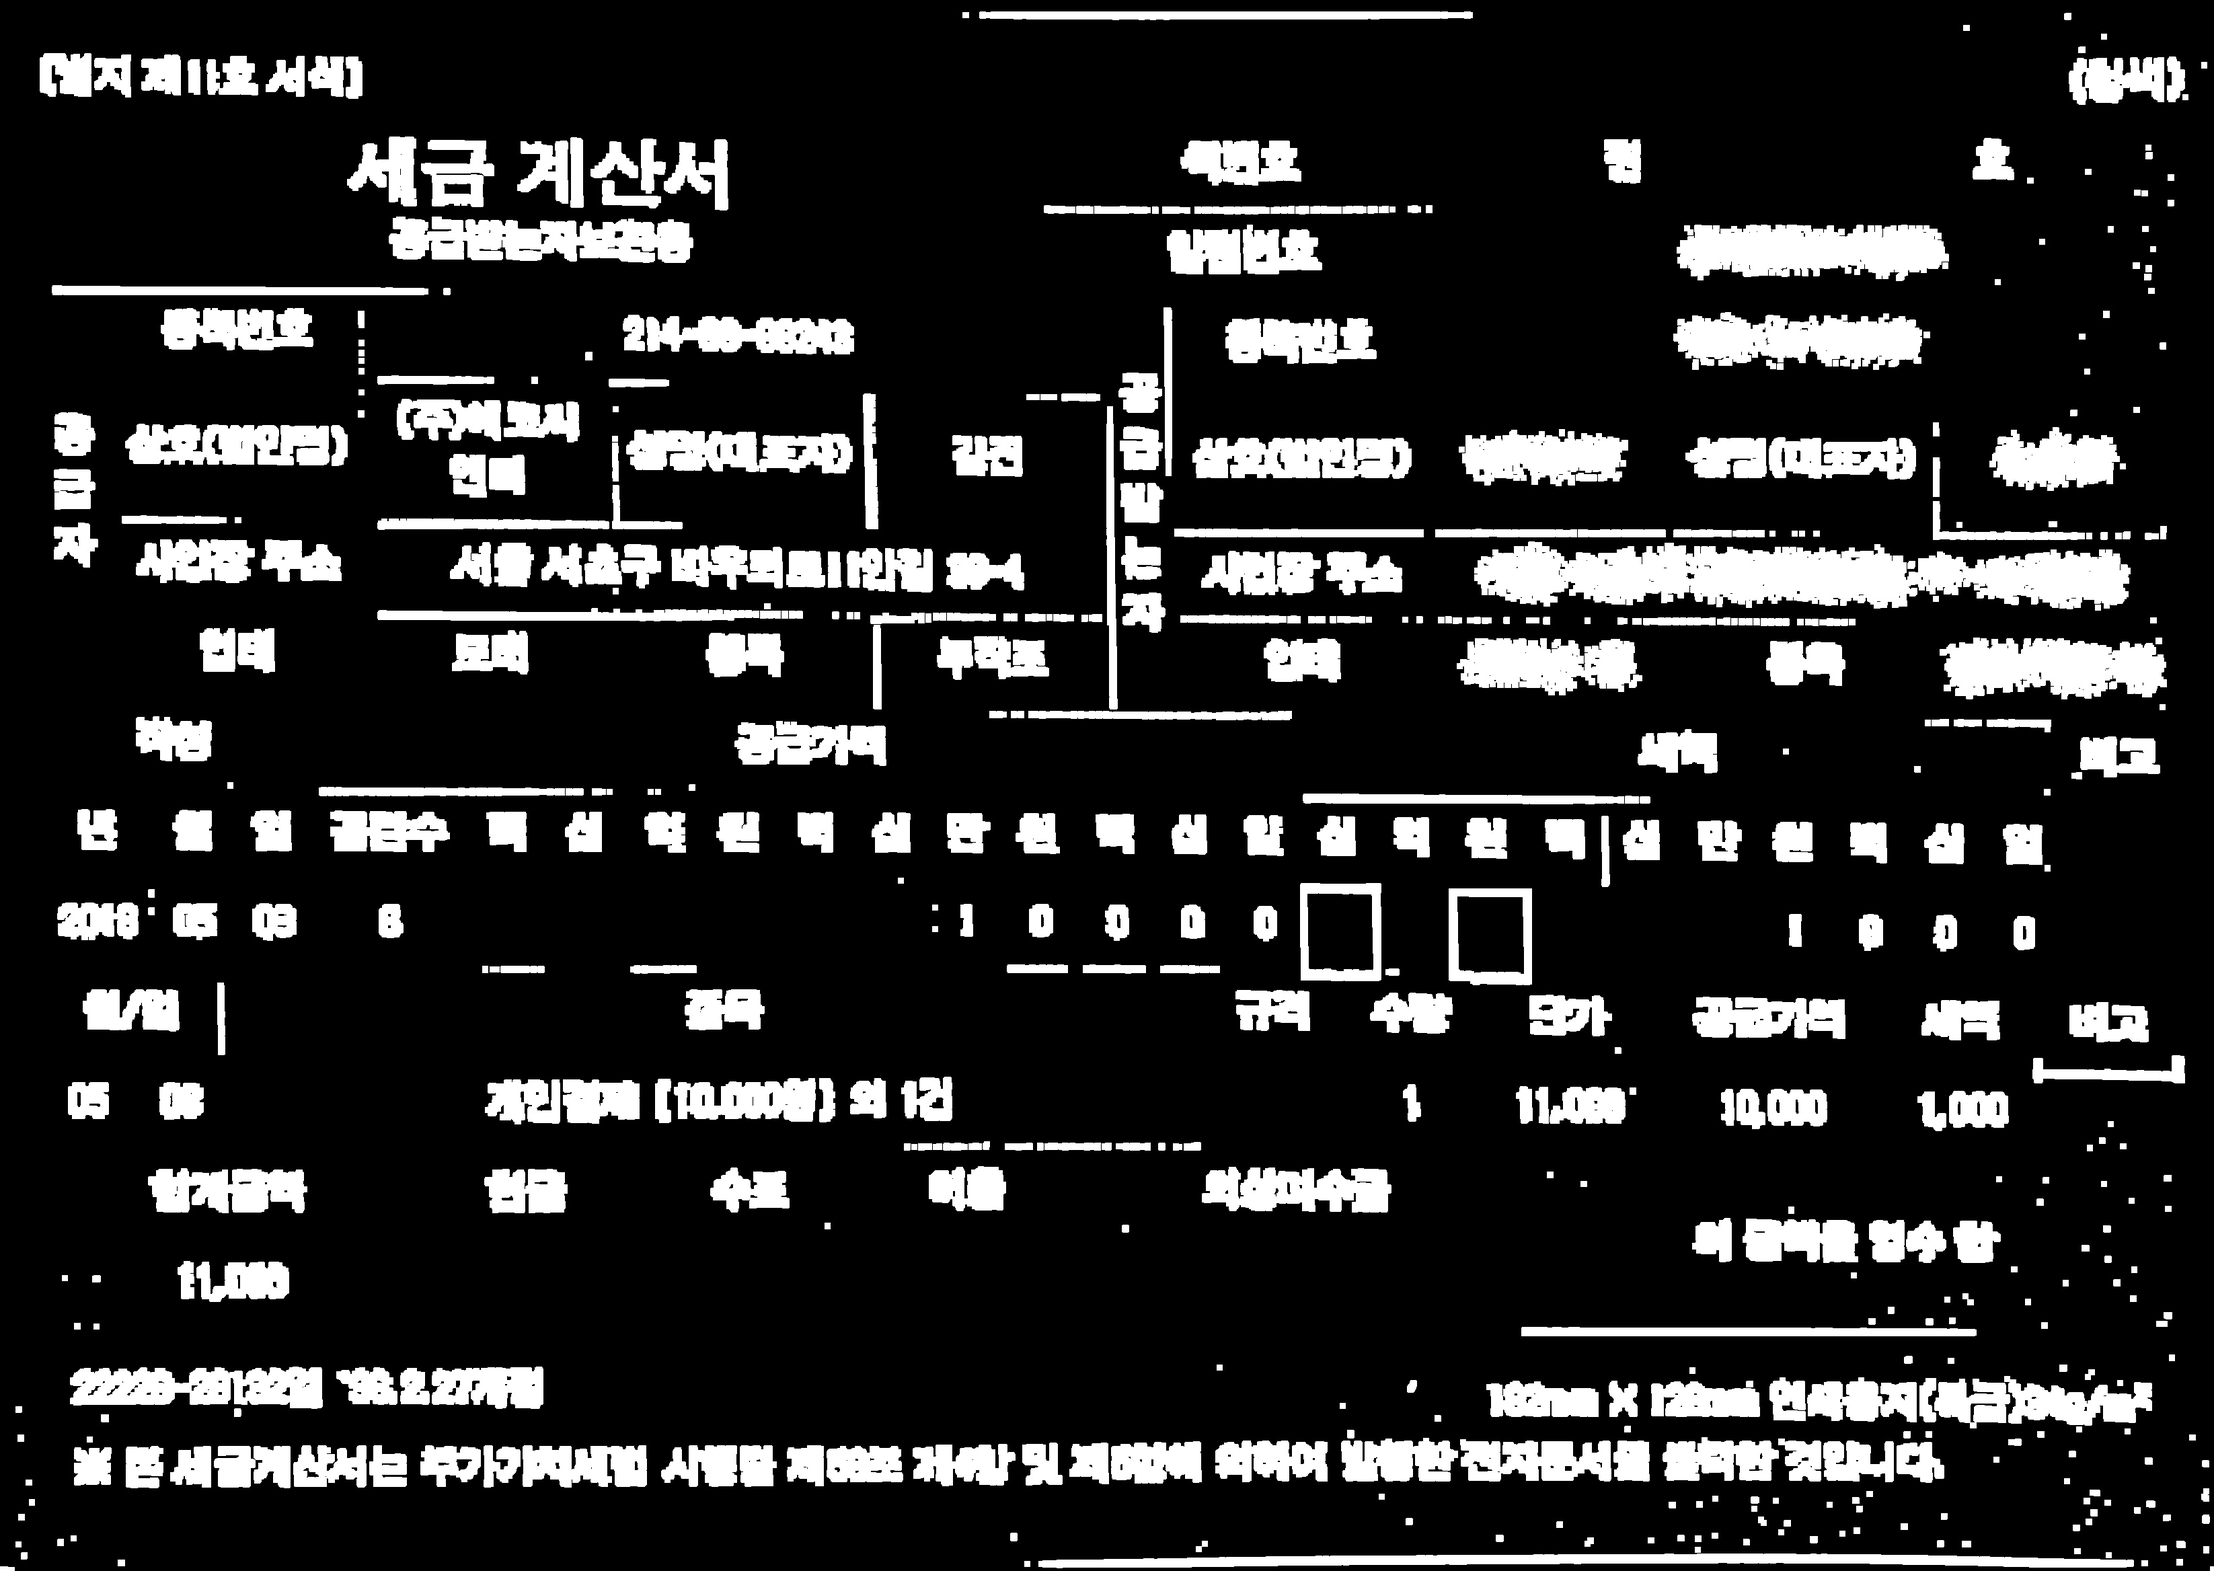
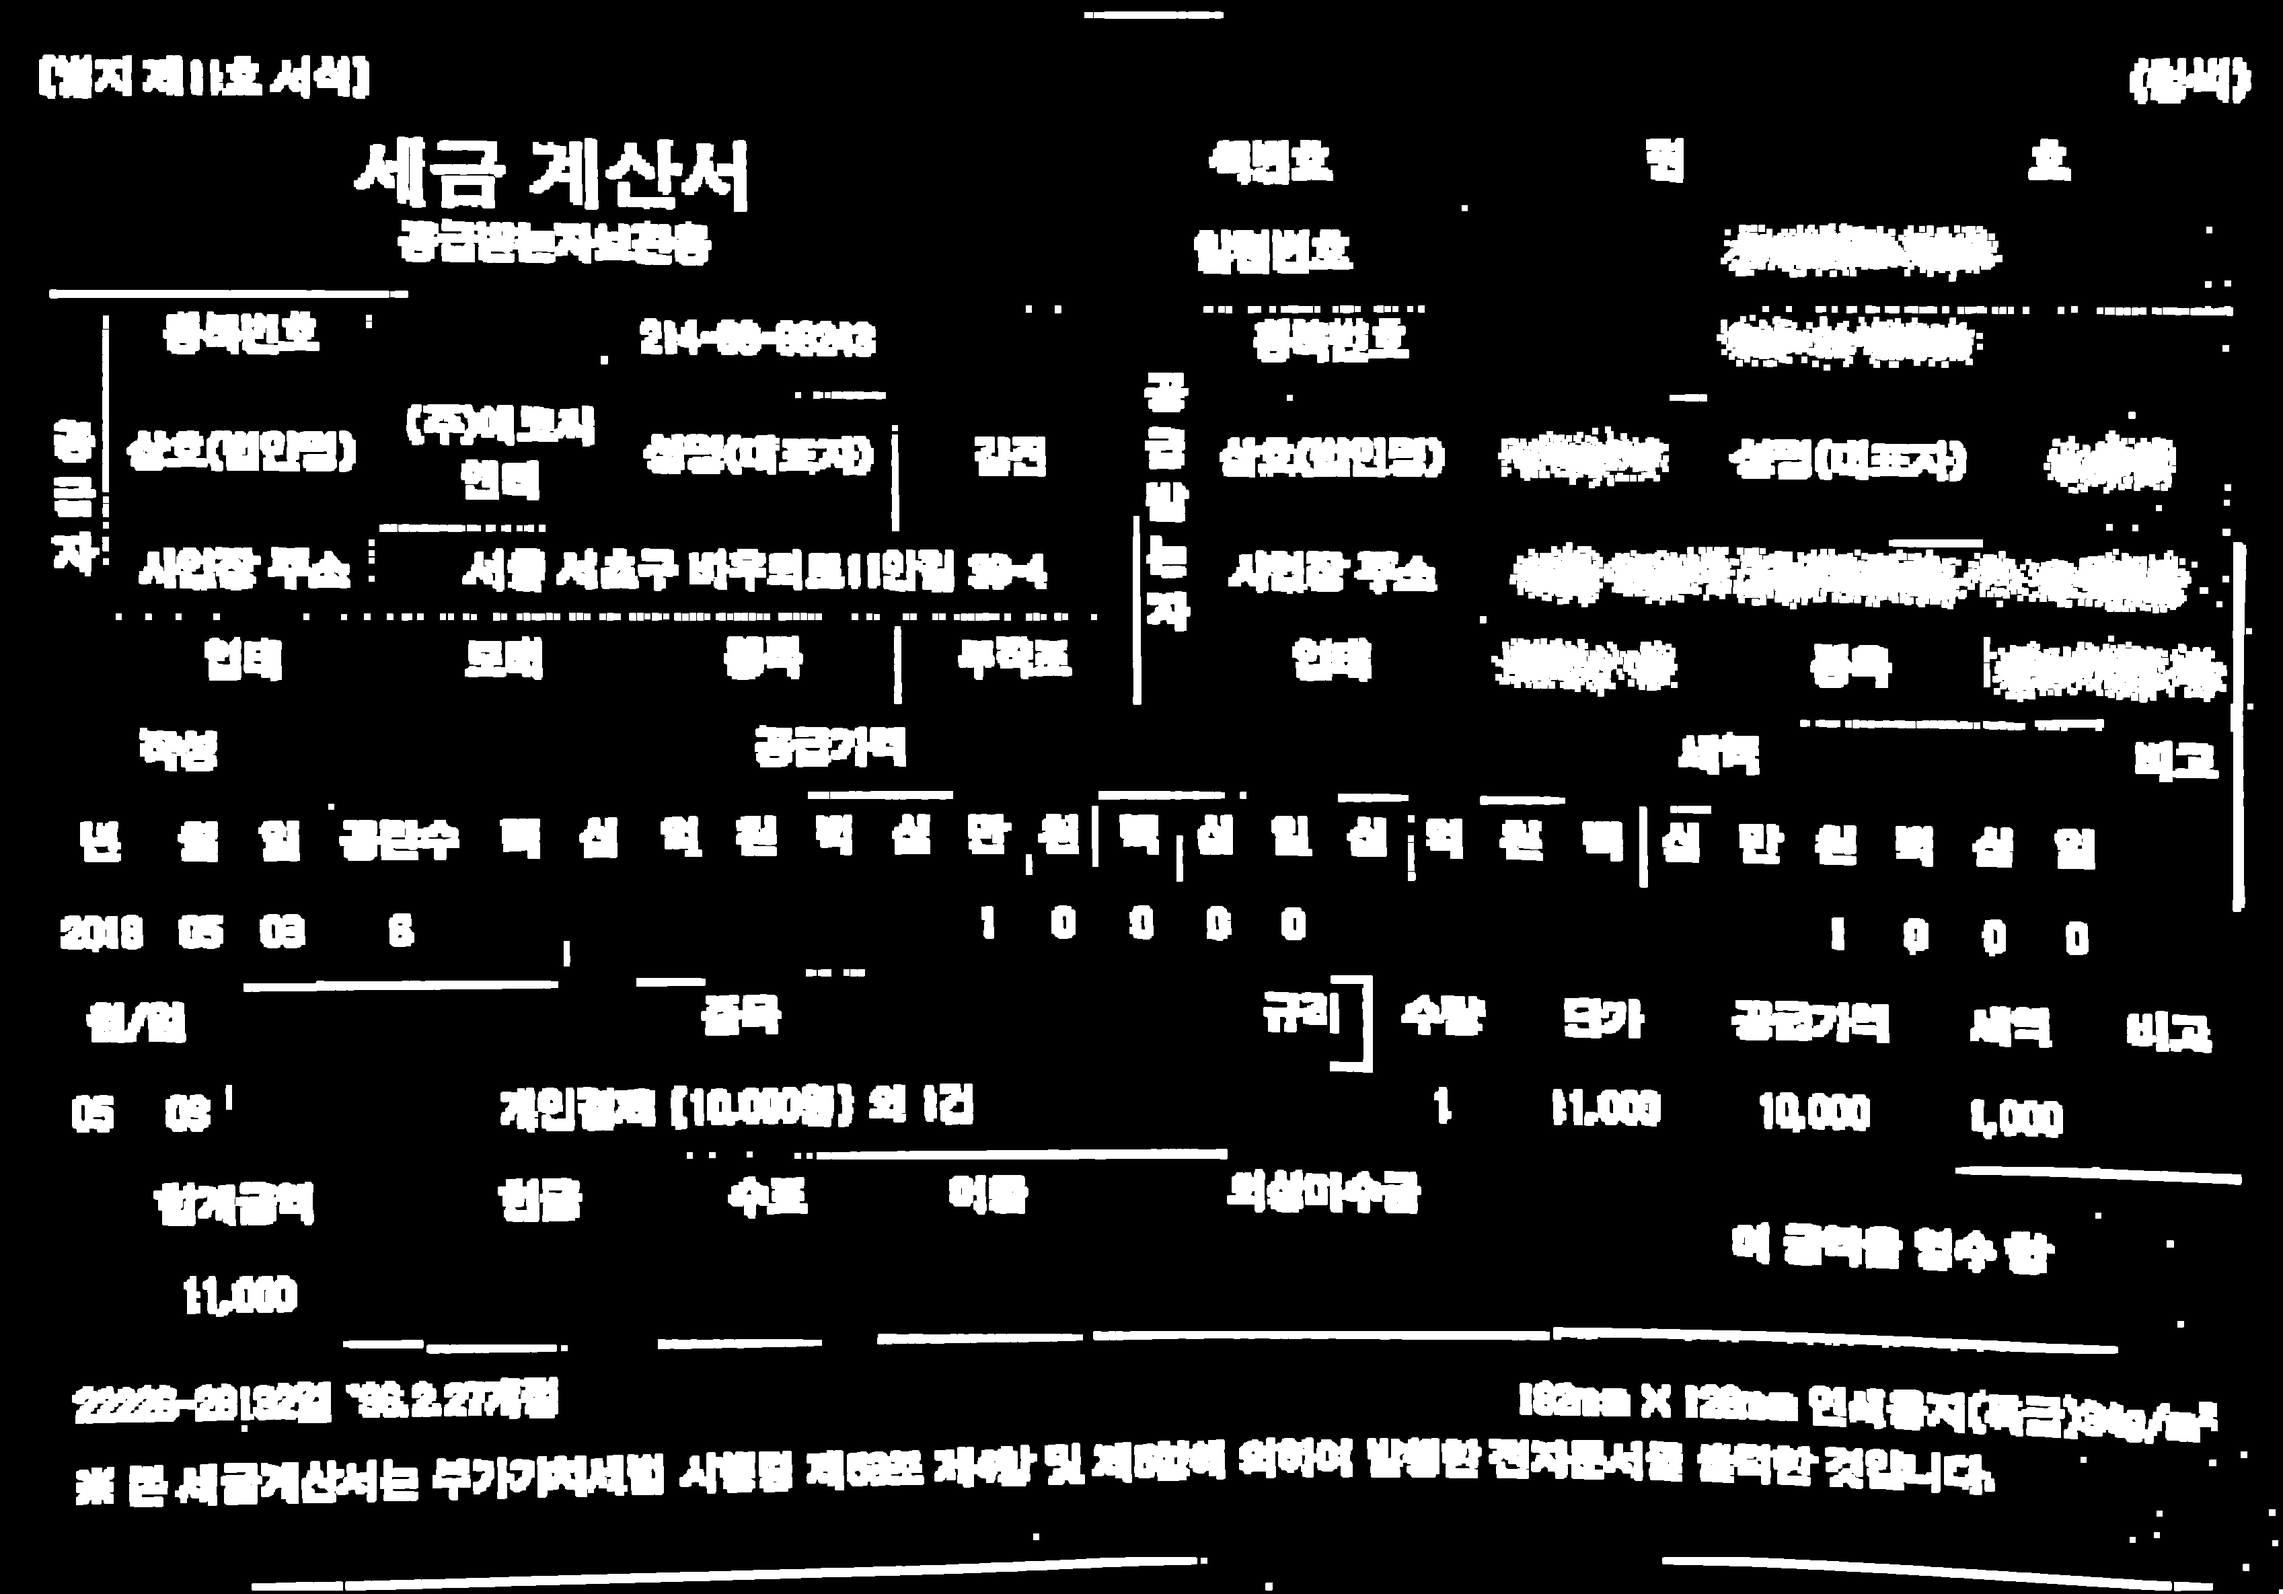
test

diff --git a/server/Main.py b/server/Main.py
@@ -64,7 +64,7 @@ def Cmain(dirPath, imagePath, type,resultdir, model=0):
 
 if __name__ == '__main__':
     #model = load_Model()
-    Cmain(dirPath='./TestCase/', imagePath='testcase7', type='.jpg', resultdir='./TestResult/')
+    Cmain(dirPath='./TestCase/', imagePath='testcase8', type='.jpg', resultdir='./TestResult/')
     # Cmain(dirPath='./TestCase/', imagePath='_erased_img', type='.png', resultdir='./TestResult/')
 
 

diff --git a/server/ImageProcessing.py b/server/ImageProcessing.py
@@ -7,7 +7,9 @@ from Contour import *
 
 def erase_line(image):
     line_img = cv2.imread('./data/result/_wrap_erased_img.png')
-    print(image.shape)
+    w,h,_ = image.shape
+    print("##")
+    line_img = cv2.resize(line_img, dsize=(h, w), interpolation=cv2.INTER_AREA)
     print(line_img.shape)
     erased_img = cv2.addWeighted(image, 1, line_img , 1, 0)
     cv2.imwrite('./contour_erasedline.jpg', erased_img)
